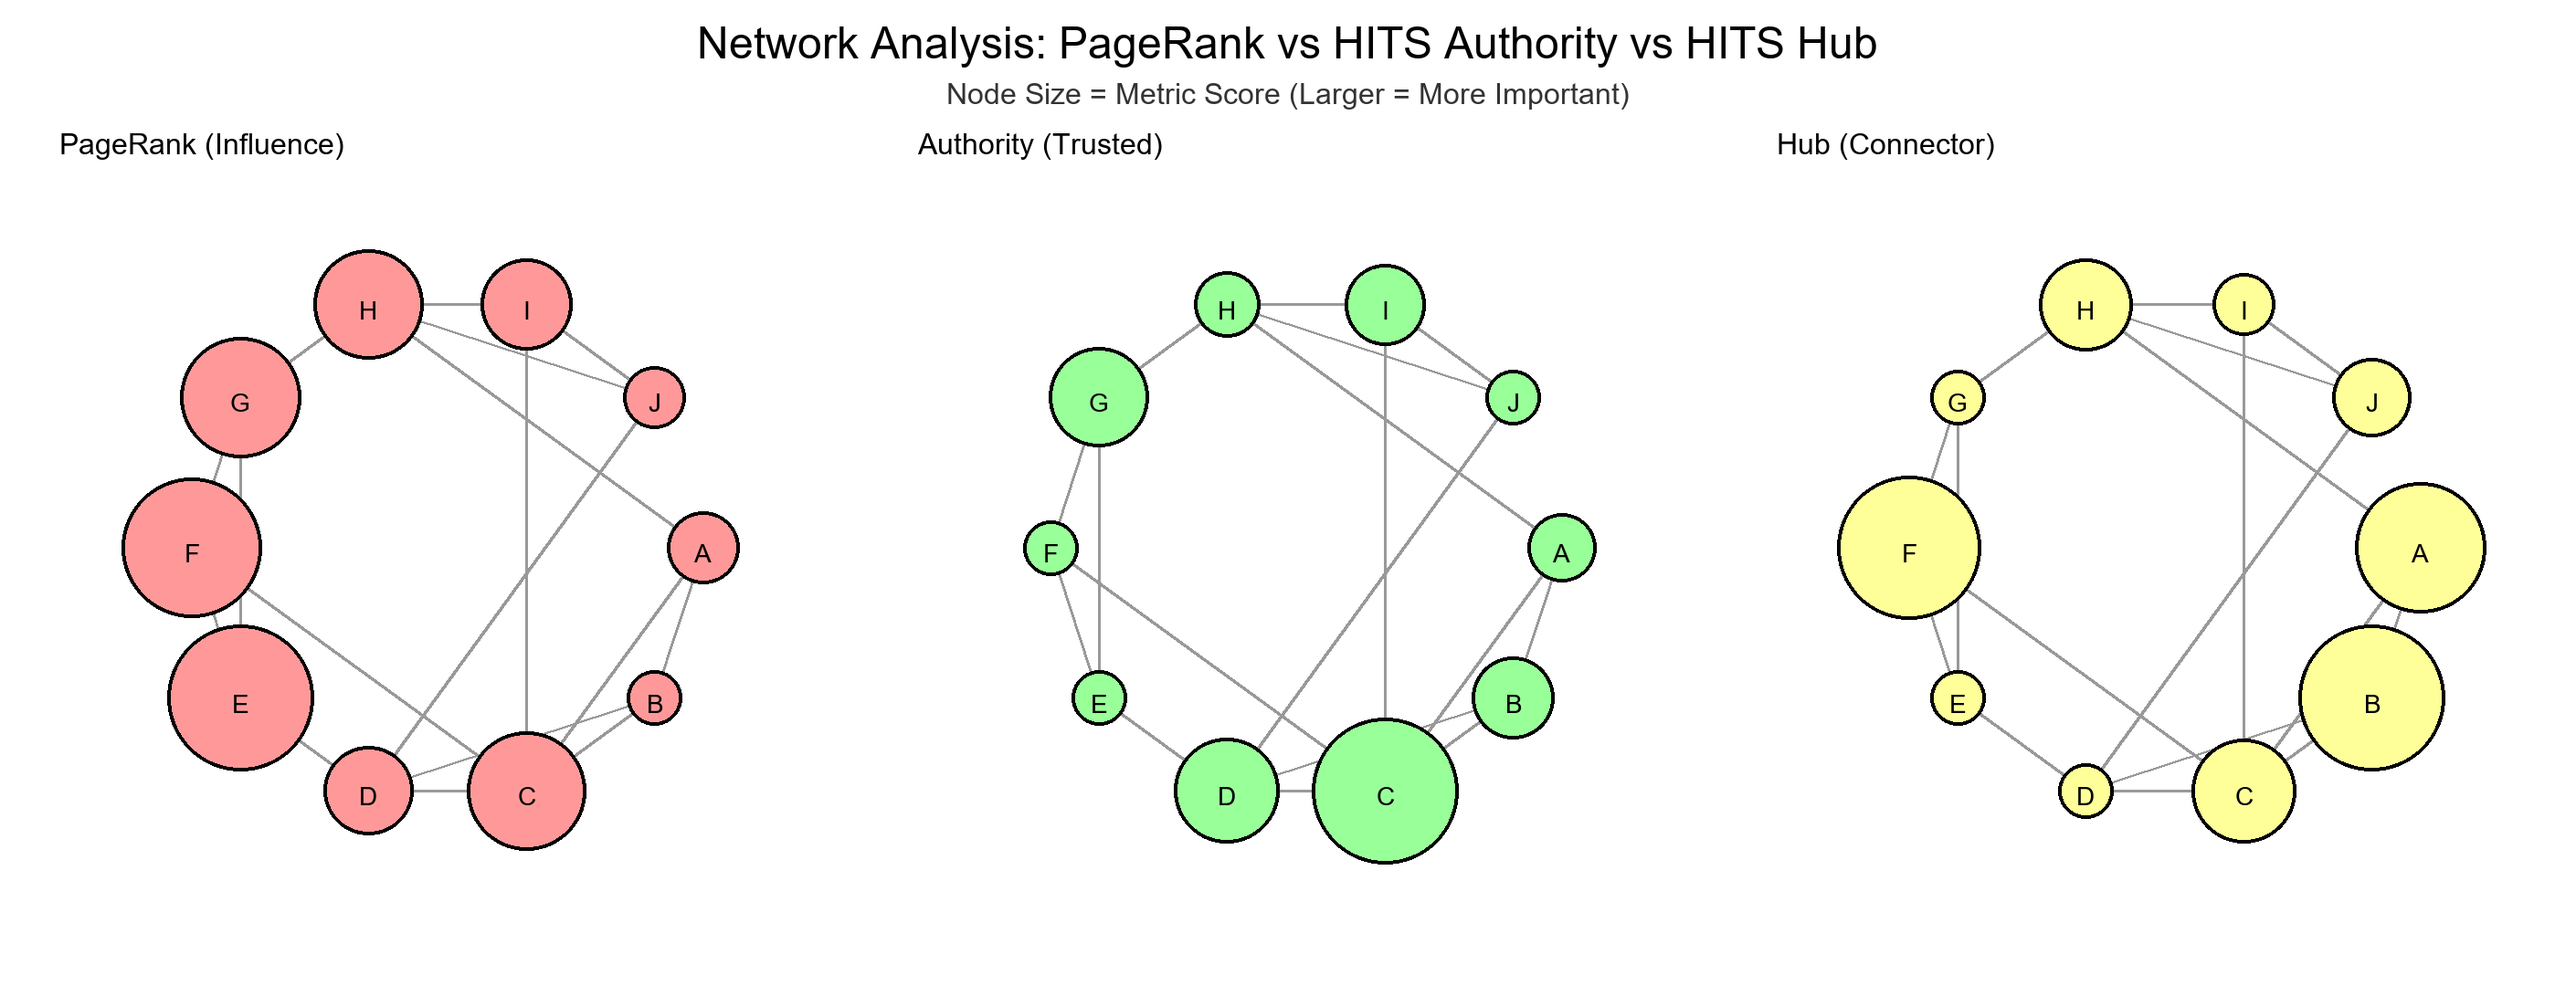
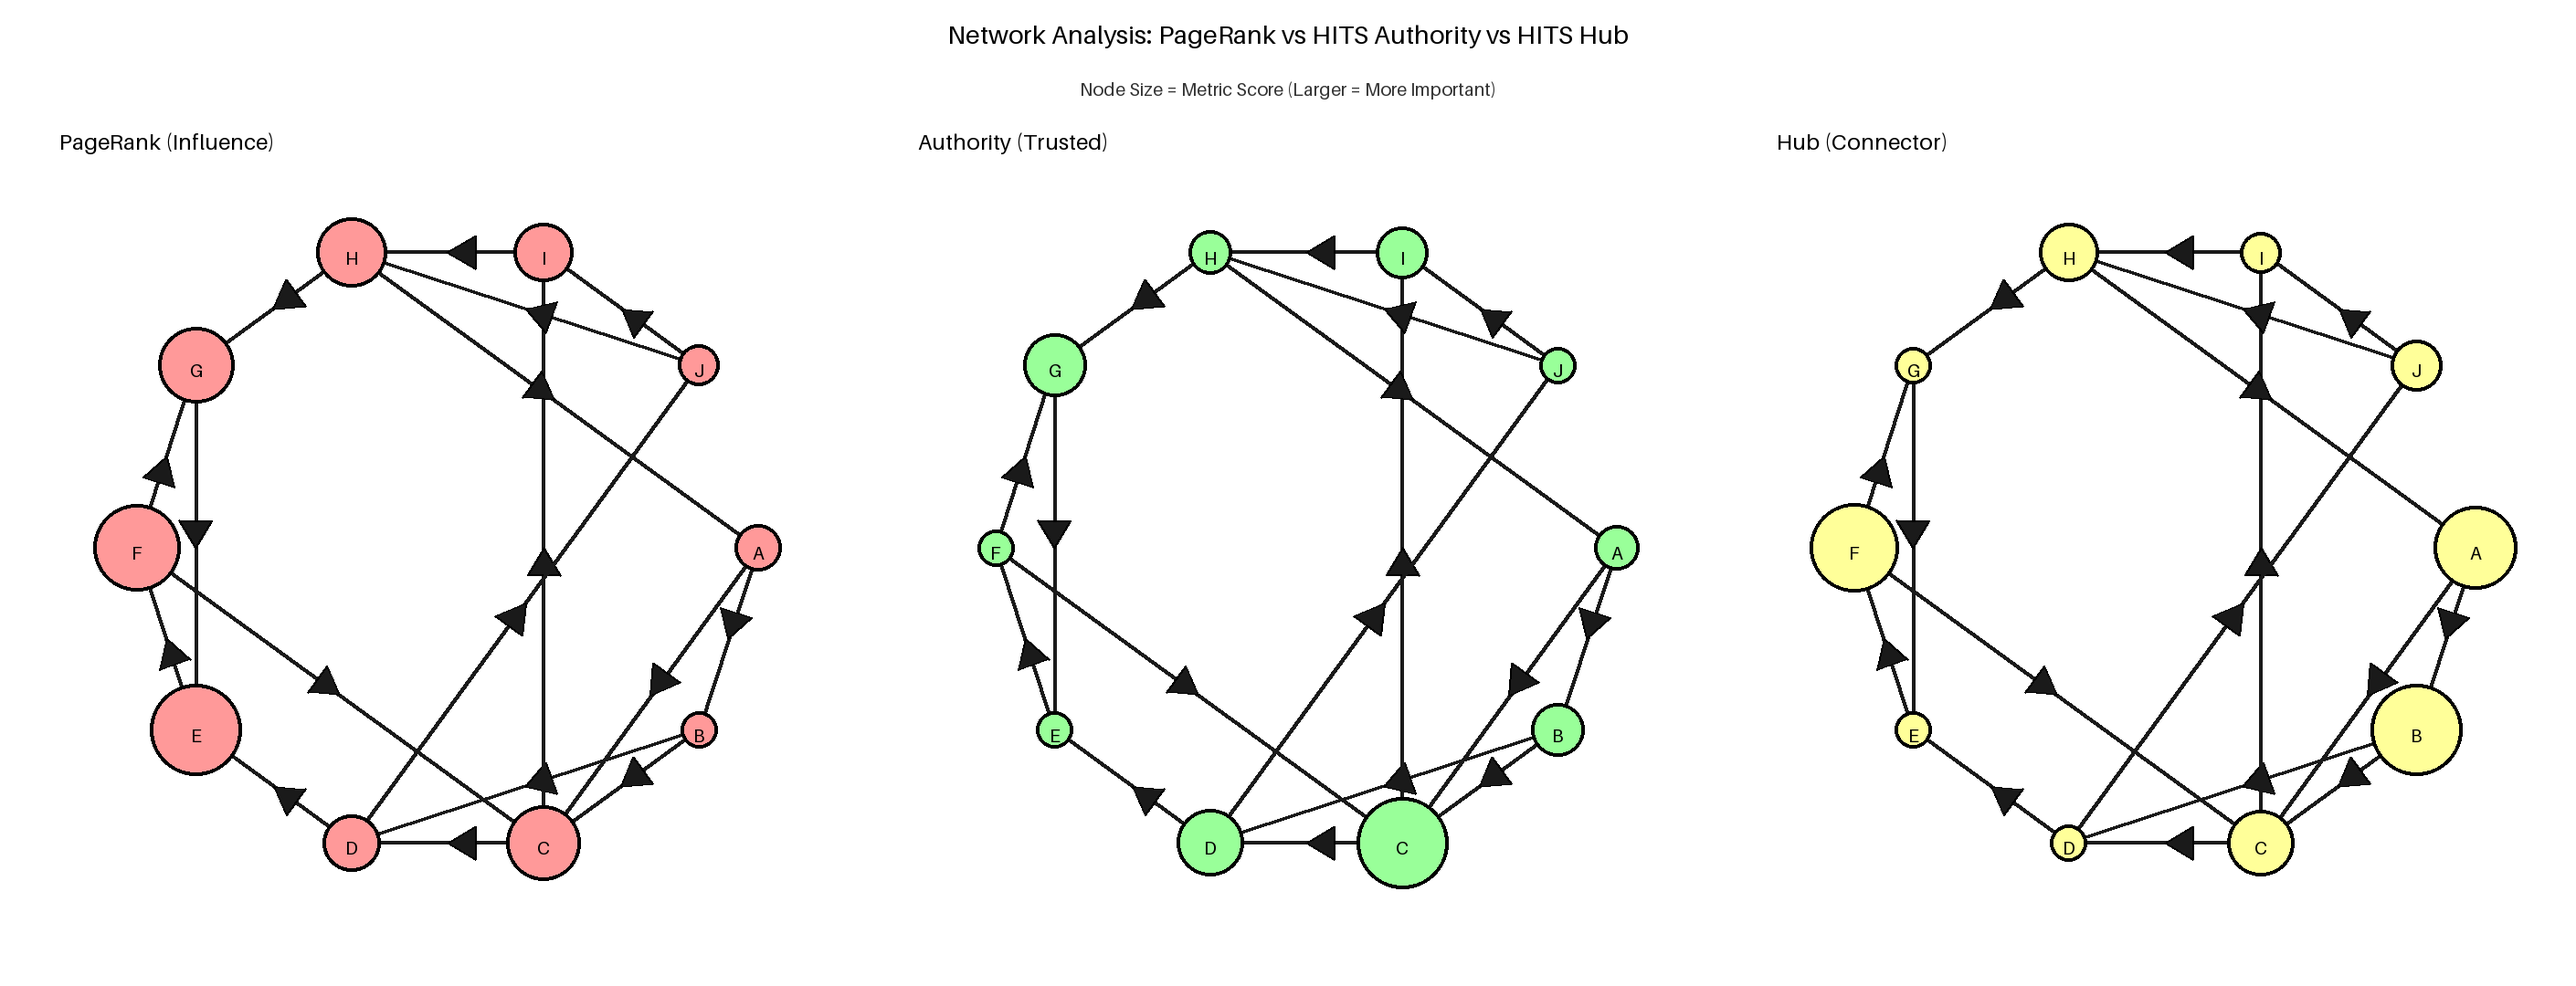
last but one

diff --git a/authority.html b/authority.html
@@ -100,12 +100,7 @@
         }
 
         .bar-container {
-            width: 100%;
-            height: 25px;
-            background: #334155;
-            border-radius: 12px;
-            overflow: hidden;
-            margin-bottom: 10px;
+            display: none;
         }
 
         .bar {
@@ -113,13 +108,6 @@
             background: linear-gradient(90deg, #22c55e, #16a34a);
             border-radius: 12px;
             transition: width 0.5s ease;
-            display: flex;
-            align-items: center;
-            justify-content: flex-end;
-            padding-right: 10px;
-            color: white;
-            font-weight: bold;
-            font-size: 0.85em;
         }
 
         .ranking-table {
@@ -288,7 +276,6 @@
                         <th>Rank</th>
                         <th>Node</th>
                         <th>Authority Score</th>
-                        <th>Percentage</th>
                     </tr>
                 </thead>
                 <tbody id="table-body"></tbody>
@@ -304,11 +291,12 @@
                 <a href="index.html" class="btn btn-primary">Back to Dashboard</a>
                 <a href="pagerank.html" class="btn btn-secondary">View PageRank Scores</a>
                 <a href="hub.html" class="btn btn-secondary">View Hub Scores</a>
+                <a href="comparison.html" class="btn btn-secondary">Algorithm Comparison</a>
             </div>
         </div>
 
         <footer>
-            <p>Authority Analysis | Assignment 2: Link Analysis Algorithms</p>
+            <p>Authority Analysis</p>
         </footer>
     </div>
 
@@ -339,7 +327,7 @@
                 <div class="node-name">Node ${item.node}</div>
                 <div class="score-value">Score: ${item.score.toFixed(6)}</div>
                 <div class="bar-container">
-                    <div class="bar" style="width: ${percentage}%">${percentage.toFixed(1)}%</div>
+                    <div class="bar" style="width: ${percentage}%"></div>
                 </div>
             `;
             metricsGrid.appendChild(card);
@@ -348,13 +336,11 @@
         // Render table
         const tableBody = document.getElementById('table-body');
         data.forEach((item, index) => {
-            const percentage = (item.score / maxScore) * 100;
             const row = document.createElement('tr');
             row.innerHTML = `
                 <td><span class="rank-badge">#${index + 1}</span></td>
                 <td><strong>Node ${item.node}</strong></td>
                 <td>${item.score.toFixed(6)}</td>
-                <td>${percentage.toFixed(2)}%</td>
             `;
             tableBody.appendChild(row);
         });

diff --git a/hub.html b/hub.html
@@ -100,12 +100,7 @@
         }
 
         .bar-container {
-            width: 100%;
-            height: 25px;
-            background: #334155;
-            border-radius: 12px;
-            overflow: hidden;
-            margin-bottom: 10px;
+            display: none;
         }
 
         .bar {
@@ -113,13 +108,6 @@
             background: linear-gradient(90deg, #f59e0b, #d97706);
             border-radius: 12px;
             transition: width 0.5s ease;
-            display: flex;
-            align-items: center;
-            justify-content: flex-end;
-            padding-right: 10px;
-            color: white;
-            font-weight: bold;
-            font-size: 0.85em;
         }
 
         .ranking-table {
@@ -280,7 +268,6 @@
                         <th>Rank</th>
                         <th>Node</th>
                         <th>Hub Score</th>
-                        <th>Percentage</th>
                     </tr>
                 </thead>
                 <tbody id="table-body"></tbody>
@@ -296,11 +283,12 @@
                 <a href="index.html" class="btn btn-primary">Back to Dashboard</a>
                 <a href="pagerank.html" class="btn btn-secondary">View PageRank Scores</a>
                 <a href="authority.html" class="btn btn-secondary">View Authority Scores</a>
+                <a href="comparison.html" class="btn btn-secondary">Algorithm Comparison</a>
             </div>
         </div>
 
         <footer>
-            <p>Hub Analysis | Assignment 2: Link Analysis Algorithms</p>
+            <p>Hub Analysis</p>
         </footer>
     </div>
 
@@ -331,7 +319,7 @@
                 <div class="node-name">Node ${item.node}</div>
                 <div class="score-value">Score: ${item.score.toFixed(6)}</div>
                 <div class="bar-container">
-                    <div class="bar" style="width: ${percentage}%">${percentage.toFixed(1)}%</div>
+                    <div class="bar" style="width: ${percentage}%"></div>
                 </div>
             `;
             metricsGrid.appendChild(card);
@@ -340,13 +328,11 @@
         // Render table
         const tableBody = document.getElementById('table-body');
         data.forEach((item, index) => {
-            const percentage = (item.score / maxScore) * 100;
             const row = document.createElement('tr');
             row.innerHTML = `
                 <td><span class="rank-badge">#${index + 1}</span></td>
                 <td><strong>Node ${item.node}</strong></td>
                 <td>${item.score.toFixed(6)}</td>
-                <td>${percentage.toFixed(2)}%</td>
             `;
             tableBody.appendChild(row);
         });

diff --git a/pagerank.html b/pagerank.html
@@ -100,12 +100,7 @@
         }
 
         .bar-container {
-            width: 100%;
-            height: 25px;
-            background: #334155;
-            border-radius: 12px;
-            overflow: hidden;
-            margin-bottom: 10px;
+            display: none;
         }
 
         .bar {
@@ -113,13 +108,6 @@
             background: linear-gradient(90deg, #ff6b6b, #ee5a6f);
             border-radius: 12px;
             transition: width 0.5s ease;
-            display: flex;
-            align-items: center;
-            justify-content: flex-end;
-            padding-right: 10px;
-            color: white;
-            font-weight: bold;
-            font-size: 0.85em;
         }
 
         .ranking-table {
@@ -280,7 +268,6 @@
                         <th>Rank</th>
                         <th>Node</th>
                         <th>Score</th>
-                        <th>Percentage</th>
                     </tr>
                 </thead>
                 <tbody id="table-body"></tbody>
@@ -296,11 +283,12 @@
                 <a href="index.html" class="btn btn-primary">Back to Dashboard</a>
                 <a href="authority.html" class="btn btn-secondary">View Authority Scores</a>
                 <a href="hub.html" class="btn btn-secondary">View Hub Scores</a>
+                <a href="comparison.html" class="btn btn-secondary">Algorithm Comparison</a>
             </div>
         </div>
 
         <footer>
-            <p>PageRank Analysis | Assignment 2: Link Analysis Algorithms</p>
+            <p>PageRank Analysis</p>
         </footer>
     </div>
 
@@ -331,7 +319,7 @@
                 <div class="node-name">Node ${item.node}</div>
                 <div class="score-value">Score: ${item.score.toFixed(6)}</div>
                 <div class="bar-container">
-                    <div class="bar" style="width: ${percentage}%">${percentage.toFixed(1)}%</div>
+                    <div class="bar" style="width: ${percentage}%"></div>
                 </div>
             `;
             metricsGrid.appendChild(card);
@@ -340,13 +328,11 @@
         // Render table
         const tableBody = document.getElementById('table-body');
         data.forEach((item, index) => {
-            const percentage = (item.score / maxScore) * 100;
             const row = document.createElement('tr');
             row.innerHTML = `
                 <td><span class="rank-badge">#${index + 1}</span></td>
                 <td><strong>Node ${item.node}</strong></td>
                 <td>${item.score.toFixed(6)}</td>
-                <td>${percentage.toFixed(2)}%</td>
             `;
             tableBody.appendChild(row);
         });

diff --git a/index.html b/index.html
@@ -174,12 +174,10 @@
                     <h2>Comparison</h2>
                     <p>Algorithm comparison & visualization</p>
                 </a>
-            </div>
         </div>
 
         <footer>
-            <p>Assignment 2: Link Analysis Algorithms (PageRank & HITS) | Network Analysis Dashboard</p>
-            <p style="margin-top: 10px; opacity: 0.8;">Data generated from social_network.csv with manual algorithm implementations</p>
+            <p>Network Analysis Dashboard</p>
         </footer>
     </div>
 </body>

diff --git a/comparison.html b/comparison.html
@@ -348,7 +348,7 @@
         </div>
 
         <footer>
-            <p>Comparison Analysis | Assignment 2: Link Analysis Algorithms</p>
+            <p>Algorithm Comparison</p>
         </footer>
     </div>
 

diff --git a/backend.py b/backend.py
@@ -189,8 +189,42 @@ try:
     pos = {}
     for i, node in enumerate(nodes):
         angle = 2 * math.pi * i / len(nodes)
-        r = 280  # Much larger radius to spread nodes apart
+        r = 340  # Increased radius for more spacing between nodes
         pos[node] = (graph_width // 2 + r * math.cos(angle), graph_height // 2 + r * math.sin(angle))
+    
+    def draw_arrow(draw, x1, y1, x2, y2, fill_color='#000000', width=4):
+        """Draw a line with an arrow in the middle pointing from (x1,y1) to (x2,y2)"""
+        import math
+        
+        # Draw the line
+        draw.line([(x1, y1), (x2, y2)], fill=fill_color, width=width)
+        
+        # Calculate midpoint
+        mid_x = (x1 + x2) / 2
+        mid_y = (y1 + y2) / 2
+        
+        # Calculate arrow direction
+        angle = math.atan2(y2 - y1, x2 - x1)
+        arrow_length = 30  # Length of arrow from tip to base
+        arrow_width = 18   # Width of arrow
+        
+        # Arrow tip is at midpoint
+        # Two points forming the arrowhead base
+        arrow_p1 = (
+            mid_x - arrow_length * math.cos(angle) - arrow_width * math.sin(angle),
+            mid_y - arrow_length * math.sin(angle) + arrow_width * math.cos(angle)
+        )
+        arrow_p2 = (
+            mid_x - arrow_length * math.cos(angle) + arrow_width * math.sin(angle),
+            mid_y - arrow_length * math.sin(angle) - arrow_width * math.cos(angle)
+        )
+        
+        # Draw filled arrowhead with dark border
+        draw.polygon([(mid_x, mid_y), arrow_p1, arrow_p2], fill=fill_color)
+        # Draw arrowhead outline for better visibility
+        draw.line([(mid_x, mid_y), arrow_p1], fill='#000000', width=2)
+        draw.line([(mid_x, mid_y), arrow_p2], fill='#000000', width=2)
+        draw.line([arrow_p1, arrow_p2], fill='#000000', width=2)
     
     def draw_graph(draw, graph_pos, scores_norm, start_x, start_y, graph_w, graph_h, title, color):
         """Draw a single network graph with node sizes based on scores"""
@@ -208,20 +242,20 @@ try:
                 large_font = ImageFont.load_default(size=20)
                 title_font = ImageFont.load_default(size=24)
         
-        # Draw edges first
+        # Draw edges first with arrows
         for u, v in G.edges():
             x1, y1 = graph_pos[u]
             x2, y2 = graph_pos[v]
             x1, y1 = start_x + x1, start_y + y1
             x2, y2 = start_x + x2, start_y + y2
-            draw.line([(x1, y1), (x2, y2)], fill='#999999', width=3)
+            draw_arrow(draw, x1, y1, x2, y2, fill_color='#1a1a1a', width=4)
         
         # Draw nodes
         for i, node in enumerate(nodes):
             x, y = graph_pos[node]
             x, y = start_x + x, start_y + y
             importance = scores_norm[i]
-            radius = 30 + importance * 50  # Much larger size range: 30-80 pixels
+            radius = 20 + importance * 30  # Smaller size range: 20-50 pixels
             
             # Draw circle with strong contrast
             draw.ellipse([(x - radius, y - radius), (x + radius, y + radius)], 
@@ -295,17 +329,17 @@ try:
             font_pr = ImageFont.load_default(size=20)
             title_font_pr = ImageFont.load_default(size=24)
     
-    # Draw PageRank edges
+    # Draw PageRank edges with arrows
     for u, v in G.edges():
         x1, y1 = pos[u]
         x2, y2 = pos[v]
-        draw_pr.line([(x1, y1), (x2, y2)], fill='#cccccc', width=2)
+        draw_arrow(draw_pr, x1, y1, x2, y2, fill_color='#1a1a1a', width=4)
     
     # Draw PageRank nodes
     for i, node in enumerate(nodes):
         x, y = pos[node]
         importance = pr_norm[i]
-        radius = 25 + importance * 45
+        radius = 18 + importance * 32
         draw_pr.ellipse([(x - radius, y - radius), (x + radius, y + radius)], 
                        fill='#ff6b6b', outline='#000000', width=3)
         bbox = draw_pr.textbbox((0, 0), node, font=font_pr)
@@ -327,12 +361,12 @@ try:
     for u, v in G.edges():
         x1, y1 = pos[u]
         x2, y2 = pos[v]
-        draw_auth.line([(x1, y1), (x2, y2)], fill='#cccccc', width=2)
+        draw_arrow(draw_auth, x1, y1, x2, y2, fill_color='#1a1a1a', width=4)
     
     for i, node in enumerate(nodes):
         x, y = pos[node]
         importance = auth_norm[i]
-        radius = 25 + importance * 45
+        radius = 18 + importance * 32
         draw_auth.ellipse([(x - radius, y - radius), (x + radius, y + radius)], 
                          fill='#66bb6a', outline='#000000', width=3)
         bbox = draw_auth.textbbox((0, 0), node, font=font_pr)
@@ -354,12 +388,12 @@ try:
     for u, v in G.edges():
         x1, y1 = pos[u]
         x2, y2 = pos[v]
-        draw_hub.line([(x1, y1), (x2, y2)], fill='#cccccc', width=2)
+        draw_arrow(draw_hub, x1, y1, x2, y2, fill_color='#1a1a1a', width=4)
     
     for i, node in enumerate(nodes):
         x, y = pos[node]
         importance = hub_norm[i]
-        radius = 25 + importance * 45
+        radius = 18 + importance * 32
         draw_hub.ellipse([(x - radius, y - radius), (x + radius, y + radius)], 
                         fill='#ffc107', outline='#000000', width=3)
         bbox = draw_hub.textbbox((0, 0), node, font=font_pr)

diff --git a/README.md b/README.md
@@ -1,0 +1,5 @@
+# Team Members
+
+- Tanuj - 2310110327
+- Kousik - 2310110363
+- Yateesh S - 2310110673
